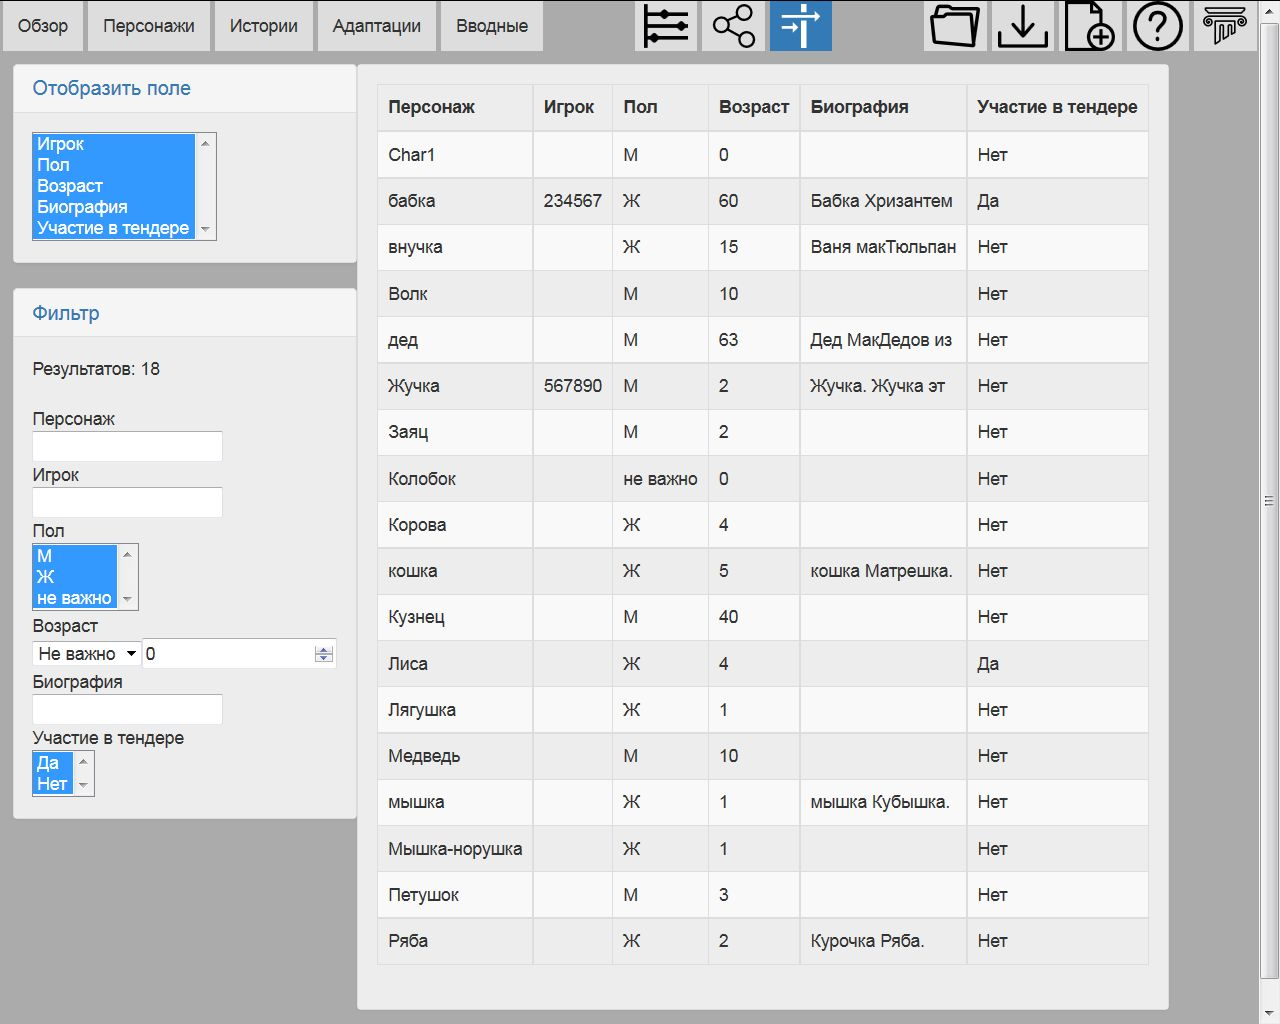
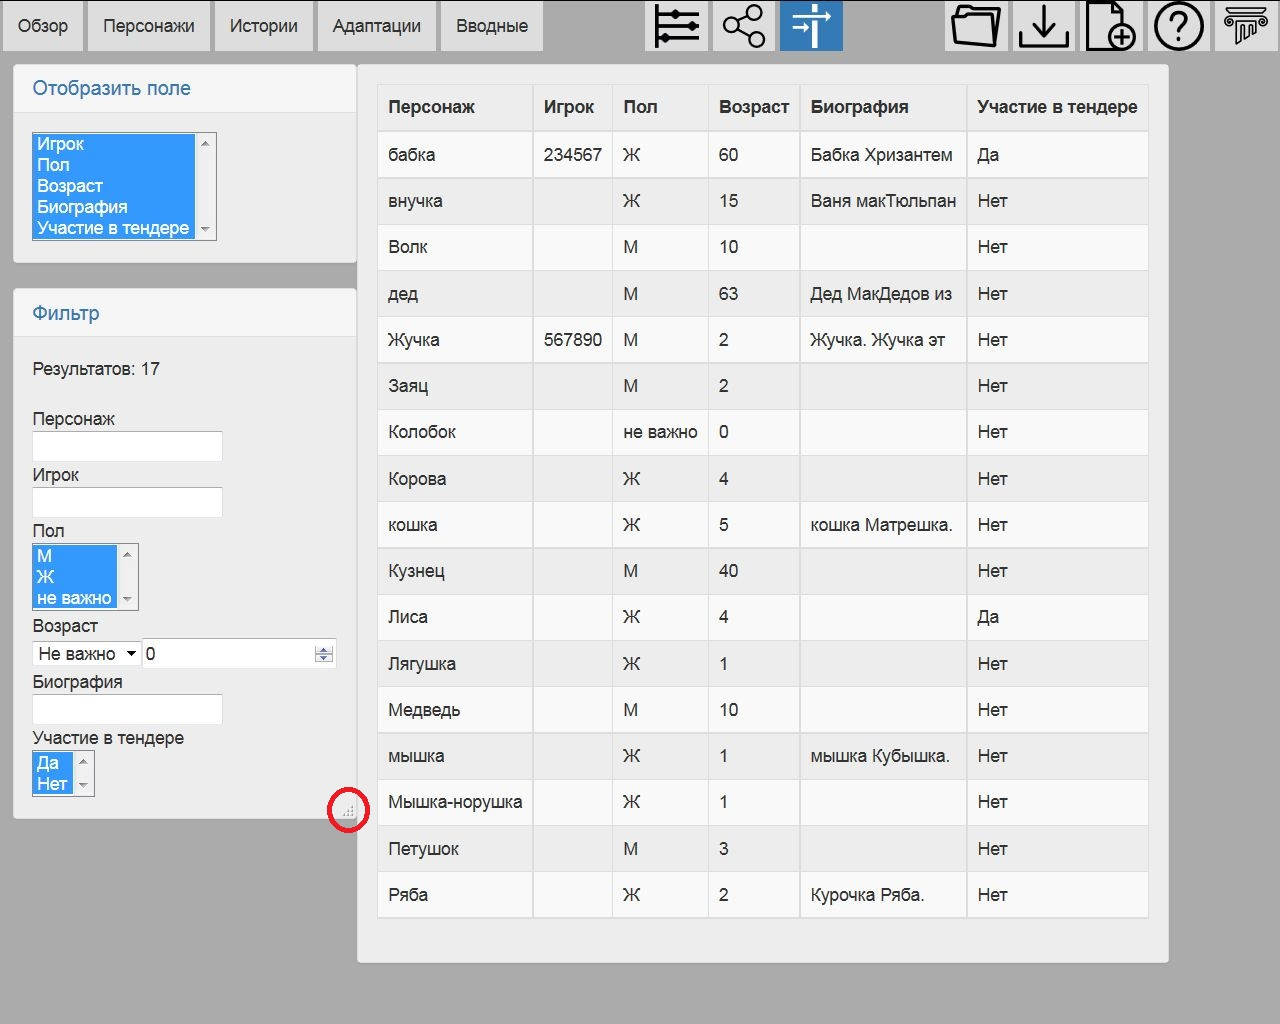
Updates for NIMS 0.4.4u2.

diff --git a/ru/doc/pages.rst b/ru/doc/pages.rst
@@ -119,7 +119,7 @@
 Персонажи. Досье
 ----------------
 
-На вкладке Досье происходит заполнение досье персонажа. В левой части экрана выбирается персонаж. По центру показано досье. Внесенные в досье изменения сохраняются автоматически. Подробнее про типы данных в досье можно прочитать в описании Редактора досье.
+На вкладке ``Досье`` происходит заполнение досье персонажа. В левой части экрана выбирается персонаж. По центру показано досье. Внесенные в досье изменения сохраняются автоматически. Подробнее про типы данных в досье можно прочитать в описании ``Редактора досье``.
 
 .. figure:: images/2_1_characterProfile.jpg
 
@@ -130,7 +130,7 @@
 Персонажи. Редактор досье
 -------------------------
 
-На вкладке Редактор досье выполняется редактирование досье персонажей: добавление/изменение/удаление полей в досье. В верхней части вкладки находятся элементы управления для создания, перемещения и удаления полей. Имена полей должны быть уникальны. Все текущие поля показаны в таблице: название, тип и значения. То, что указано в поле ``Значения`` является значением по умолчанию для всех полей, кроме единственного выбора. В единственном выборе значением по умолчанию является первый элемент.
+На вкладке ``Редактор досье`` выполняется редактирование досье персонажей: добавление/изменение/удаление полей в досье. В верхней части вкладки находятся элементы управления для создания, перемещения и удаления полей. Имена полей должны быть уникальны. Все текущие поля показаны в таблице: ```Название``, ``Тип``, ``Значения`` и ``Печатать во вводных``. То, что указано в поле ``Значения`` является значением по умолчанию для всех полей, кроме единственного выбора. В единственном выборе значением по умолчанию является первый элемент. Поля с установленной галочкой ``Печатать во вводных`` будут выводиться во вводные.
 
 Типы полей:
 
@@ -209,6 +209,10 @@
 
 Слева сверху расположен селектор истории (единственный выбор). Слева снизу расположен переключатель фильтра - по персонажам и по событиям (множественный выбор через ctrl/shift). По центру отображаются таблица из двух столбцов. В левом столбце выводится оригинальное описание события, которое можно редактировать. В правом столбце выводятся текстовые поля с описанием события для каждого выбранного персонажа - текст адаптации. Таким образом в один момент времени можно работать, как с адаптацией одного персонажа, так и с несколькими персонажами одновременно. Под текстом адаптации выводится галочка - отметка о завершении работы над адаптацией. Сверху расположена галочка-фильтр завершенных историй. История считается завершенной, если проставлены галочки о завершении всех адаптаций. 
 
+Оригинал события состоит из названия события, времени события и текста. Адаптация события состоит из имени персонажа, субъективного времени и текста адаптации. Если текст адаптации пуст, то во вводную пойдет текст оригинала. По аналогии если субъективное время не указано, то во вводную пойдёт время события как есть.
+
+Размер левого столбца с селектором истории и фильтрами событий/персонажей можно регулировать с помощью таскаемого уголка (см. скриншот).
+
 .. figure:: images/4_events.jpg
 
 	Вкладка События
@@ -218,7 +222,17 @@
 Вводные. Предварительный просмотр
 ---------------------------------
 
-Прежде чем экспортировать вводные, можно посмотреть какая информация будет выведена, используя вкладку предварительного просмотра. При предварительном просмотре необходимо указать тип отображения событий: в хронологическом порядке или сгруппированными по историям. Под этим выбором находится селектор персонажа. Инвентарь и адаптации событий можно редактировать из режима предварительного просмотра. Обращаю ваше внимание - в заголовке события указывается ключевое поле ``История`` или ``Персонаж``. Если это ``История``, значит для персонажа не была написана адаптация текста события и он увидит его как есть. Редактирование такого поля является редактированием текста события. Если в заголовке указано ``Персонаж``, значит вы редактируете адаптацию события.
+Прежде чем экспортировать вводные, можно посмотреть какая информация будет выведена, используя вкладку предварительного просмотра. В заголовке панели находится селектор персонажа, для которого мы хотим посмотреть вводную. При просмотре вводной доступны следующие опции:
+
+	``Группировать события по историям`` и ``Сортировать события по хронологии`` - выбор способа представления событий.
+	
+	``Свернуть все панели`` - в предварительном просмотре вводные персонажа разбиты на панели: инвентарь, досье, и в зависимости от способа отображения событий будут показаны панели для историй или группы событий по пять штук. В зависимости от этой галочки все панели будут изначально свёрнуты или развёрнуты.
+	
+	``Отключить заголовки`` - возможность отключения заголовков в предварительном просмотре. Так как заголовки могут содержать излишнюю информацию, может возникнуть необходимость не выводить их во вводных и вычитка вводных может производиться с учётом этого.
+
+Поле ``Субъктивное время`` показывает время события, которое получит персонаж во вводной. Если поле пусто, он увидит время как есть.
+	
+Обращаю ваше внимание - если в событии присутствует кнопка ``Разблокировать редактирование оригинала события``, значит для персонажа не была написана адаптация текста события и он увидит его как есть. Редактирование такого поля является редактированием текста события. В противном случае вы редактируете адаптацию события.
 
 .. figure:: images/5_1_briefingPreview.jpg
 
@@ -269,6 +283,8 @@
 
 На этой вкладке отображается хронология событий. Слева находится селектор событий. Чтобы сделать множественный выбор зажмите ctrl и выбирайте элементы в списке. Масштаб хронологии изменяется с помощью колесика мыши. Красным отмечено время начала и завершения доигровых событий. События можно перетаскивать по хронологии. Для этого нажмите ЛКМ на событии и тащите его в нужную сторону. При этом следует учитывать, что от этих перемещений время событий в историях меняется автоматически. 
 
+Размер левого столбца с селектором историй можно регулировать с помощью таскаемого уголка (см. скриншот).
+
 .. note:: Возможность перетаскивания событий в версии НИМС 0.4.2 была отключена по просьбе пользователей, чтобы не смещать события случайно.
 
 .. figure:: images/6_timeline.jpg
@@ -313,6 +329,8 @@
 ------
 
 На вкладке Фильтр выполняется выборка из персонажей по досье. Подробнее про типы данных в досье можно прочитать в разделе :ref:`characters-profile-editor`. Фильтрация строк и текстов происходит по наличию искомой строки в строке или тексте. Фильтрация по полям с единственным выбором происходит по выбору из предложенного списка значений. Чтобы сделать множественный выбор зажмите ctrl и выбирайте элементы в списке. Фильтрация для значений вида да/нет аналогична фильтрации по полям с единственным выбором. Фильтрация по числовым значениям требует указания числа и вида проверки: не важно, больше, равно, меньше. Обновление результата фильтрации происходит сразу после изменения параметров фильтра. В центральной части выводится результат фильтрации. Клик по заголовку таблицы выполняет сортировку по соответствующему полю + иконка. 
+
+Размер левого столбца с настройками фильтра персонажей можно регулировать с помощью таскаемого уголка (см. скриншот).
 
 В верхнем левом углу добавлен список отображаемых полей (множественный выбор через ctrl/shift). Так же под заголовком фильтра указано количество результатов, возвращенное фильтром.
 
